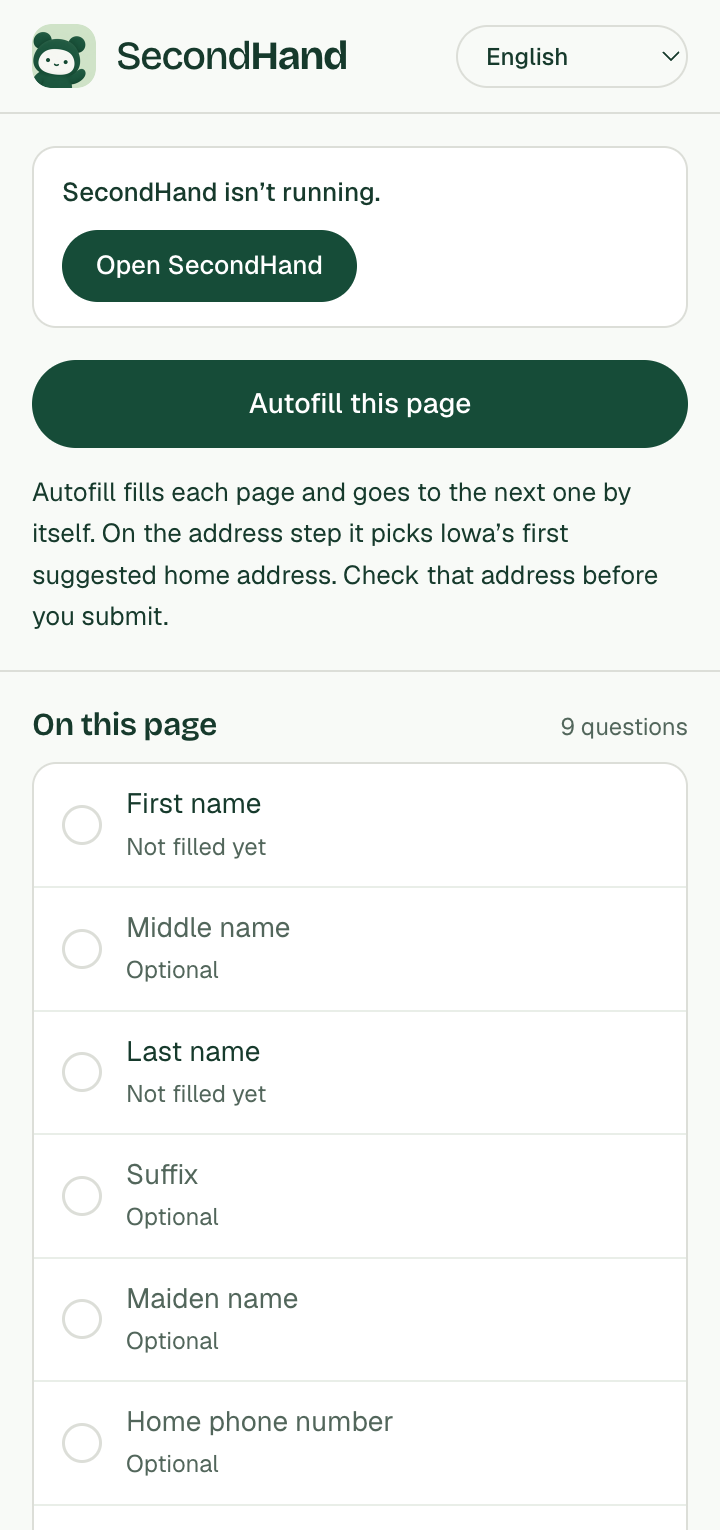
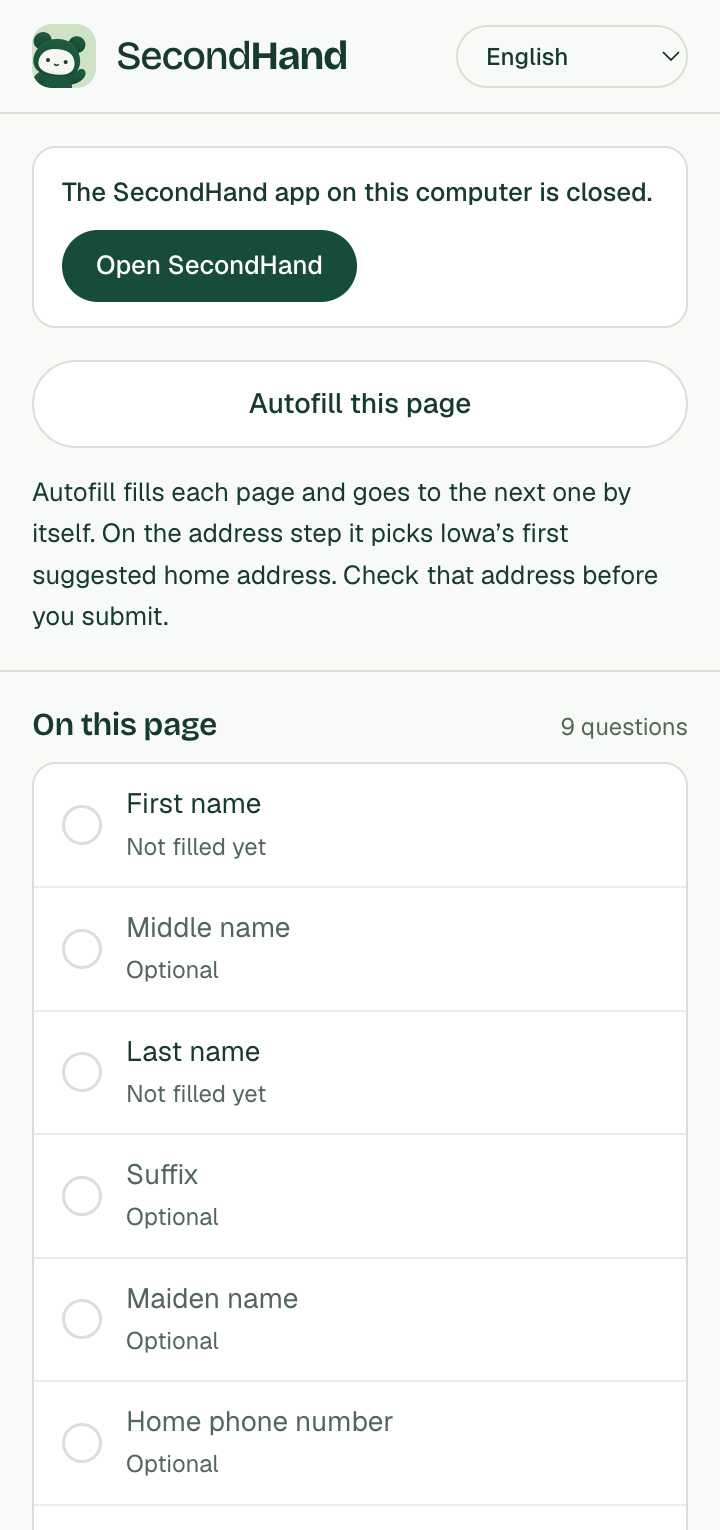
fix: say that it is the app on this computer that is closed or locked
"SecondHand isn't running." and "SecondHand is locked." confused people
who were looking at SecondHand's side panel at the time. The notice now
says "The SecondHand app on this computer is closed." or "...is locked.",
in all six languages.

While that notice is up, its Open SecondHand or Unlock button is the one
to press, so Autofill is drawn as an outline under it. Autofill still
works the same when clicked.

Changed region(s): [[0.0306, 0.215, 0.9778, 0.3072], [0.0917, 0.1229, 0.7333, 0.1536], [0.7639, 0.1229, 0.8861, 0.1536]]

diff --git a/extension/strings.js b/extension/strings.js
@@ -99,8 +99,8 @@
     'panel.turningOffAllSites': 'Turning SecondHand off on all websites…',
     'panel.openForm': 'Open Iowa’s SNAP application or another food-assistance form in this tab.',
 
-    'desktop.notRunning': 'SecondHand isn’t running.',
-    'desktop.locked': 'SecondHand is locked.',
+    'desktop.notRunning': 'The SecondHand app on this computer is closed.',
+    'desktop.locked': 'The SecondHand app on this computer is locked.',
     'desktop.unlockThenAutofill': 'Unlock SecondHand, then click Autofill.',
     'desktop.open': 'Open SecondHand',
     'desktop.opening': 'Opening SecondHand…',
@@ -434,8 +434,8 @@
     'panel.turningOffAllSites': 'Desactivando SecondHand en todos los sitios web…',
     'panel.openForm': 'Abra la solicitud de SNAP de Iowa u otro formulario de ayuda alimentaria en esta pestaña.',
 
-    'desktop.notRunning': 'SecondHand no está abierto.',
-    'desktop.locked': 'SecondHand está bloqueado.',
+    'desktop.notRunning': 'La aplicación SecondHand de esta computadora está cerrada.',
+    'desktop.locked': 'La aplicación SecondHand de esta computadora está bloqueada.',
     'desktop.unlockThenAutofill': 'Desbloquee SecondHand y luego haga clic en “Autocompletar”.',
     'desktop.open': 'Abrir SecondHand',
     'desktop.opening': 'Abriendo SecondHand…',
@@ -766,8 +766,8 @@
     'panel.turningOffAllSites': 'Đang tắt SecondHand trên mọi trang web…',
     'panel.openForm': 'Hãy mở đơn SNAP của Iowa hoặc một biểu mẫu hỗ trợ thực phẩm khác trong thẻ này.',
 
-    'desktop.notRunning': 'SecondHand chưa chạy.',
-    'desktop.locked': 'SecondHand đang bị khóa.',
+    'desktop.notRunning': 'Ứng dụng SecondHand trên máy tính này đang đóng.',
+    'desktop.locked': 'Ứng dụng SecondHand trên máy tính này đang bị khóa.',
     'desktop.unlockThenAutofill': 'Hãy mở khóa SecondHand, rồi bấm Tự điền.',
     'desktop.open': 'Mở SecondHand',
     'desktop.opening': 'Đang mở SecondHand…',
@@ -1099,8 +1099,8 @@
     'panel.turningOffAllSites': '正在所有网站上关闭 SecondHand…',
     'panel.openForm': '请在此标签页中打开爱荷华州的 SNAP 申请或其他食物援助表格。',
 
-    'desktop.notRunning': 'SecondHand 未运行。',
-    'desktop.locked': 'SecondHand 已锁定。',
+    'desktop.notRunning': '这台电脑上的 SecondHand 应用未打开。',
+    'desktop.locked': '这台电脑上的 SecondHand 应用已锁定。',
     'desktop.unlockThenAutofill': '请解锁 SecondHand，然后点击自动填写。',
     'desktop.open': '打开 SecondHand',
     'desktop.opening': '正在打开 SecondHand…',
@@ -1432,8 +1432,8 @@
     'panel.turningOffAllSites': 'Désactivation de SecondHand sur tous les sites…',
     'panel.openForm': 'Ouvrez la demande SNAP de l’Iowa ou un autre formulaire d’aide alimentaire dans cet onglet.',
 
-    'desktop.notRunning': 'SecondHand n’est pas ouvert.',
-    'desktop.locked': 'SecondHand est verrouillé.',
+    'desktop.notRunning': 'L’application SecondHand de cet ordinateur est fermée.',
+    'desktop.locked': 'L’application SecondHand de cet ordinateur est verrouillée.',
     'desktop.unlockThenAutofill': 'Déverrouillez SecondHand, puis cliquez sur Remplir.',
     'desktop.open': 'Ouvrir SecondHand',
     'desktop.opening': 'Ouverture de SecondHand…',
@@ -1765,8 +1765,8 @@
     'panel.turningOffAllSites': 'جارٍ إيقاف SecondHand على كل المواقع…',
     'panel.openForm': 'افتح طلب SNAP الخاص بأيوا أو نموذجًا آخر للمساعدة الغذائية في علامة التبويب هذه.',
 
-    'desktop.notRunning': 'SecondHand لا يعمل.',
-    'desktop.locked': 'SecondHand مقفل.',
+    'desktop.notRunning': 'تطبيق SecondHand على هذا الكمبيوتر مغلق.',
+    'desktop.locked': 'تطبيق SecondHand على هذا الكمبيوتر مقفل.',
     'desktop.unlockThenAutofill': 'افتح قفل SecondHand، ثم انقر على تعبئة تلقائية.',
     'desktop.open': 'افتح SecondHand',
     'desktop.opening': 'جارٍ فتح SecondHand…',

diff --git a/extension/panel.js b/extension/panel.js
@@ -455,6 +455,9 @@
       $('laya-status').hidden = !laya;
       $('laya-status').textContent = laya;
       $('panel-autofill').textContent = t(autopilot ? 'panel.stopAutofill' : 'panel.autofill');
+      // While the app needs opening or unlocking, that button is the one to press: Autofill steps back to an outline.
+      $('panel-autofill').classList.toggle('primary', !desktopAction);
+      $('panel-autofill').classList.toggle('secondary', Boolean(desktopAction));
       // Where the questions left are listed by name, each row goes to its own.
       $('panel-left').hidden = !target || !left.length || named.length > 0;
       $('panel-left').disabled = working;
